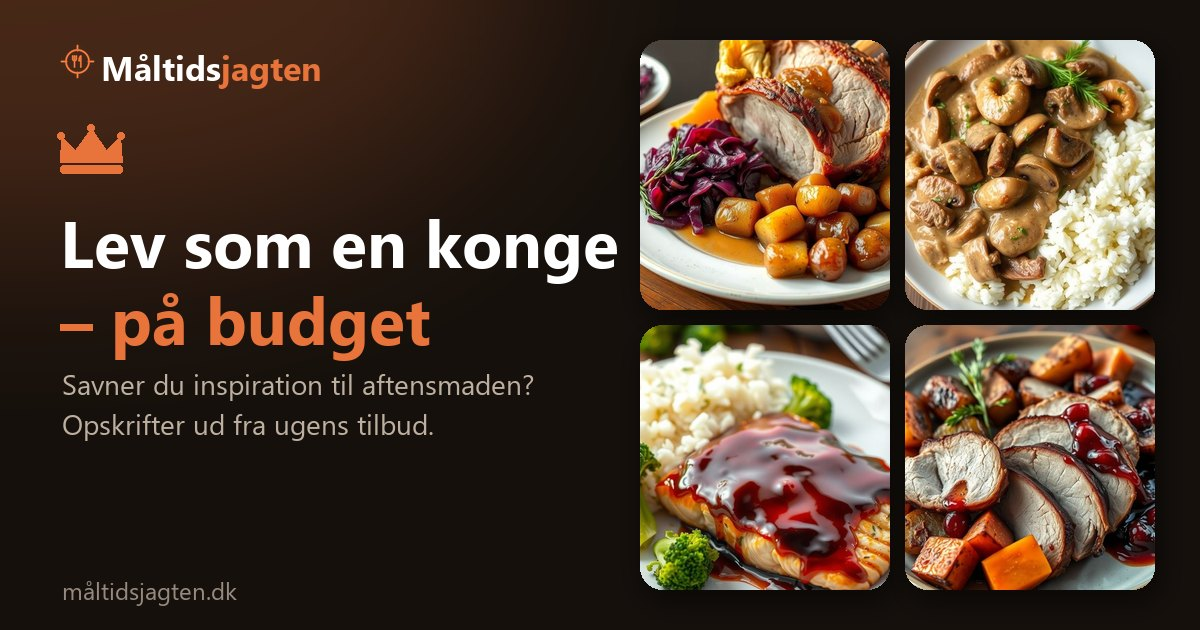
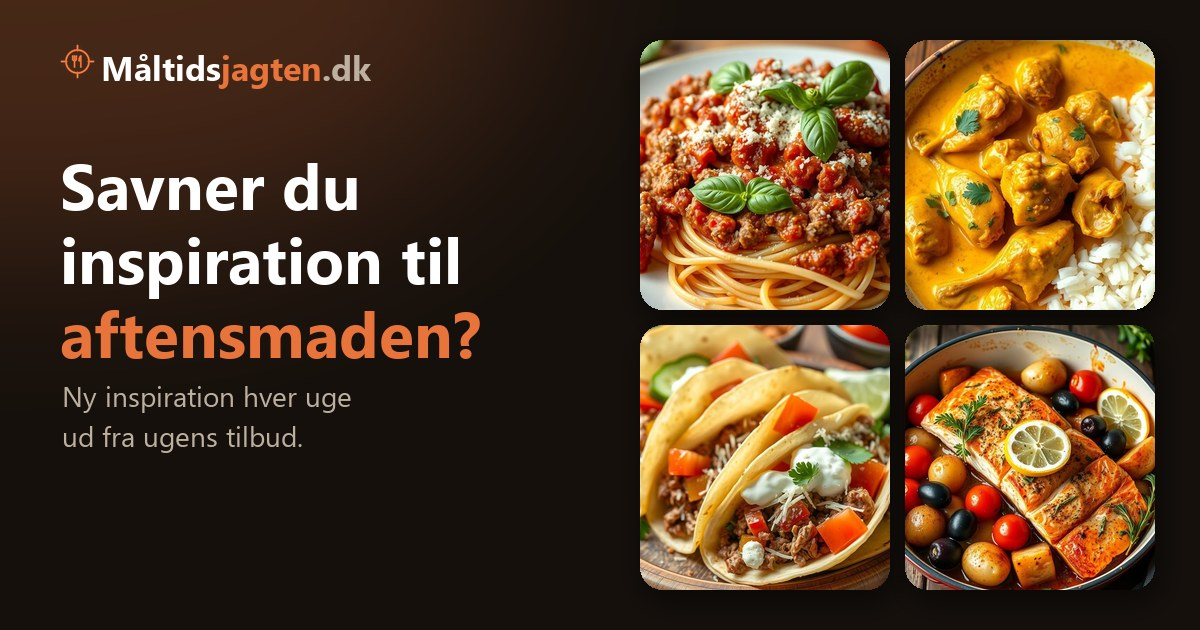
Delingsbillede og -tekst paa Facebook: Savner du inspiration til aftensmaden?

diff --git a/index.html b/index.html
@@ -7,9 +7,12 @@
 <title>Måltidsjagten — ugens retter ud fra tilbudsaviserne</title>
 <meta name="description" content="Måltidsjagten finder ugens bedste tilbud i Netto, MENY, Bilka, REMA 1000, Kvickly, SuperBrugsen, Lidl og 365discount og foreslår hjemmelavede retter med opskrifter, indkøbsliste og ugeplan.">
 <meta property="og:type" content="website">
-<meta property="og:title" content="Lev som en konge – på budget | Måltidsjagten">
-<meta property="og:description" content="Savner du inspiration til aftensmaden? Opskrifter ud fra ugens tilbud i 8 supermarkeder, med indkøbsliste og ugeplan – gratis.">
-<meta property="og:image" content="https://www.xn--mltidsjagten-tcb.dk/og-image.jpg">
+<meta property="og:title" content="Savner du inspiration til aftensmaden? | Måltidsjagten">
+<meta property="og:description" content="Vi gør ugens tilbud fra 8 supermarkeder til opskrifter med pris pr. person, indkøbsseddel og ugeplan. Gratis oprettelse resten af 2026.">
+<meta property="og:image" content="https://www.xn--mltidsjagten-tcb.dk/og-image.jpg?v=2">
+<meta property="og:image:width" content="1200">
+<meta property="og:image:height" content="630">
+<meta property="og:image:alt" content="Savner du inspiration til aftensmaden? Fire hjemmelavede retter fra Måltidsjagten.dk">
 <meta property="og:url" content="https://www.xn--mltidsjagten-tcb.dk/">
 <meta name="twitter:card" content="summary_large_image">
 <link rel="icon" type="image/svg+xml" href="/favicon.svg?v=2">
